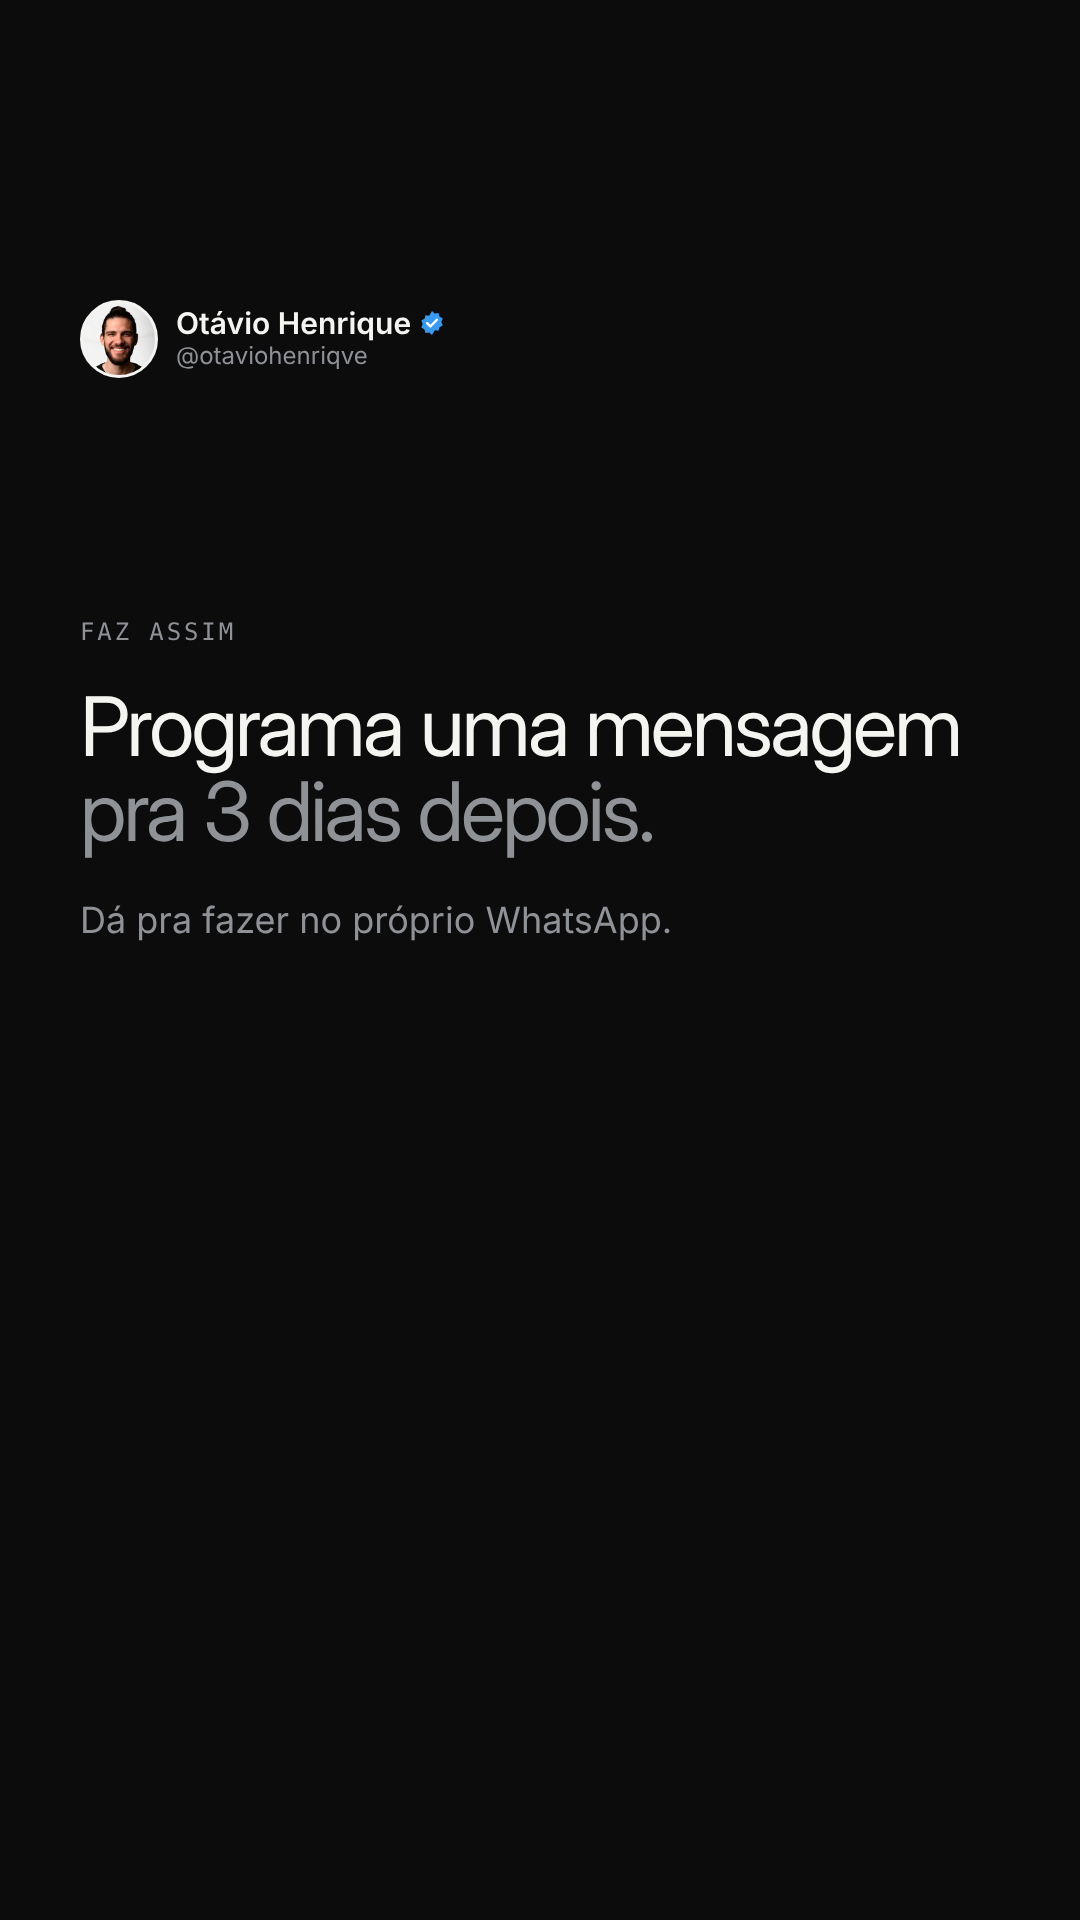
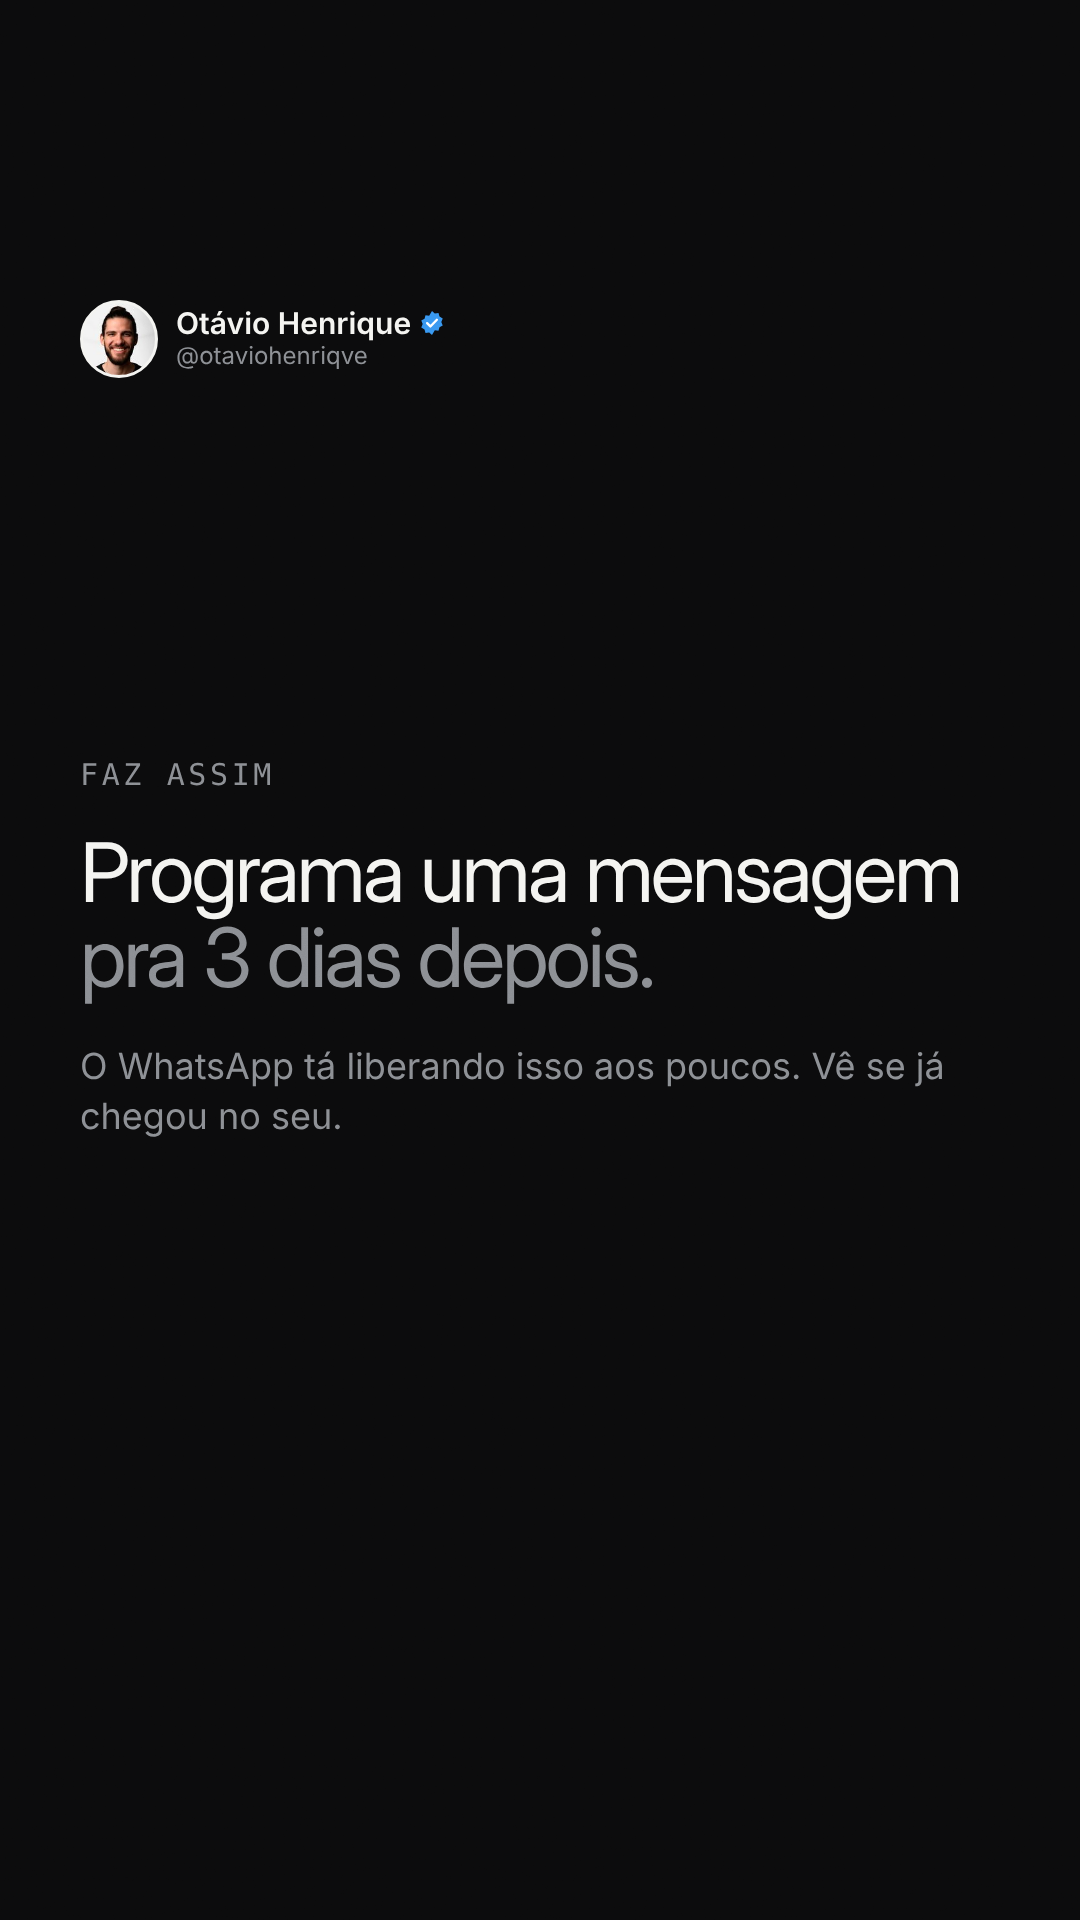
Story 25/11: 3ª versão; stories claros com cinza mais escuro e rótulo maior (contraste)
Claude-Session: https://claude.ai/code/session_01GTBDSLfyakYzF6A2vFjK6d

Changed region(s): [[0.0611, 0.3125, 0.8861, 0.5938], [0.7639, 0.5312, 0.8861, 0.5625], [0.1528, 0.3125, 0.2139, 0.3438]]

diff --git a/engine/story/render_story.js b/engine/story/render_story.js
@@ -11,7 +11,7 @@ const esc = s => String(s).replace(/&/g,'&amp;').replace(/</g,'&lt;');
 const rich = s => esc(s).replace(/\*([^*]+)\*/g,'<span class="acc">$1</span>').replace(/\|\|(.*)$/s,'<span class="mut">$1</span>').replace(/\n/g,'<br>');
 function page(t){
   const dark = t.theme !== 'light';
-  const C = dark ? {bg:'#0B0B0C',ink:'#F4F4F1',mut:'#8C8F94',acc:'#D4FF3A',line:'rgba(255,255,255,.12)'} : {bg:'#F2F2EE',ink:'#111214',mut:'#7C7F85',acc:'#1F4FFF',line:'rgba(17,18,20,.12)'};
+  const C = dark ? {bg:'#0B0B0C',ink:'#F4F4F1',mut:'#8C8F94',acc:'#D4FF3A',line:'rgba(255,255,255,.12)'} : {bg:'#F2F2EE',ink:'#111214',mut:'#5F6268',acc:'#1F4FFF',line:'rgba(17,18,20,.12)'};
   const img = t.image ? `<div style="position:absolute;left:${t.imgX??240}px;top:${t.imgTop??1000}px;width:${t.imgW??600}px;height:${(t.imgW??600)*1.25}px;border-radius:28px;background:url('${b64(path.join(dir,t.image))}') center/cover;box-shadow:0 40px 80px -30px rgba(0,0,0,.45);transform:rotate(${t.rot??-3}deg)"></div>` : '';
   const big = t.big ? `<div style="position:absolute;left:76px;top:${t.bigTop??1060}px;font:400 ${t.bigSize??420}px/.85 'Inter Display';letter-spacing:-.06em;color:${C.acc}">${esc(t.big)}</div>` : '';
   return `<html><head><meta charset="utf-8"><style>
@@ -20,7 +20,7 @@ function page(t){
   .hd{position:absolute;left:80px;top:300px;display:flex;align-items:center;gap:18px}
   .hd .av{width:72px;height:72px;border-radius:50%;background:url('${avatar}') center/cover;border:3px solid ${dark?'#F4F4F1':'#fff'}}
   .hd b{font:600 30px/1.1 Inter;display:flex;align-items:center;gap:8px}.hd small{font:400 24px/1.3 Inter;color:${C.mut}}
-  .lbl{font:400 24px/1 'DejaVu Sans Mono';letter-spacing:.12em;text-transform:uppercase;color:${C.mut}}
+  .lbl{font:400 30px/1 'DejaVu Sans Mono';letter-spacing:.12em;text-transform:uppercase;color:${C.mut}}
   .t{font:400 ${t.size??84}px/1.04 'Inter Display';letter-spacing:-.035em}
   .bd{font:400 36px/1.4 Inter;color:${C.mut}}
   .src{position:absolute;left:80px;right:80px;bottom:370px;font:400 22px/1.3 'DejaVu Sans Mono';color:${C.mut};letter-spacing:.02em}
